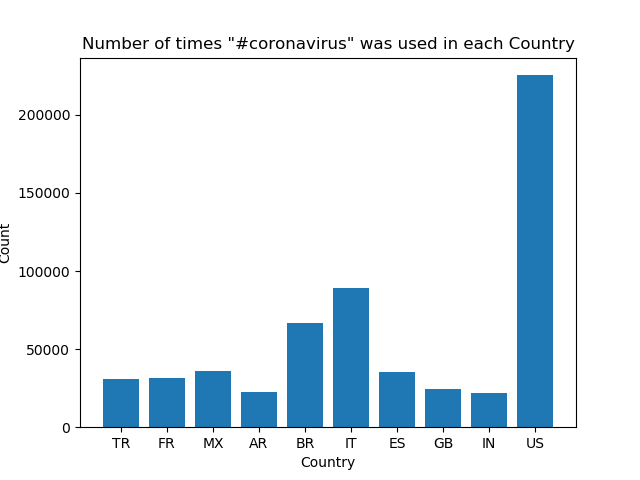
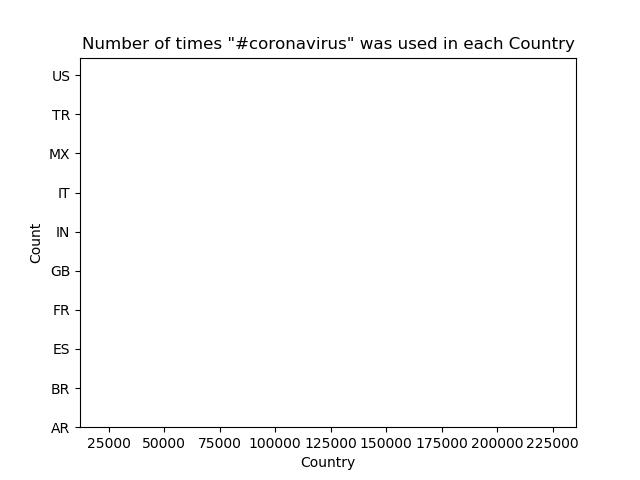
new

diff --git a/src/visualize.py b/src/visualize.py
@@ -38,8 +38,7 @@ graphItems = sorted(sorted(counts[args.key].items(), key=lambda item: (item[1],i
         #[:10] returns first ten items
 
 graph_x, graph_y = [*zip(*graphItems)]
-plt.bar(graph_x, graph_y)
-plt.xticks(range(len(graph_x)), graph_x)
+plt.bar(graph_y, graph_x)
 
 x_label = "Language" if args.input_path == "reduced.lang" else  "Country" if args.input_path == "reduced.country" else ""
 key = args.key
